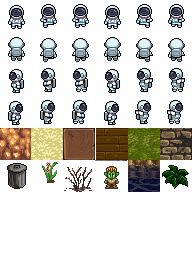
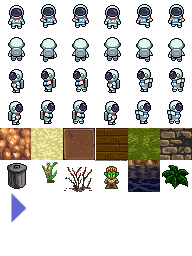
feat(dialog): Letter by Letter rendering, new more clean and modular codebase, arrow when the dialog ends

Changed region(s): [[0.0312, 0.75, 0.1562, 0.875]]

diff --git a/dialogs/dialogs.c b/dialogs/dialogs.c
@@ -1,170 +1,242 @@
 #include "dialogs.h"
 #include "../global/globals.h"
+#include "../map/map.h"
+#include "../entities/entity.h"
 #include "SDL3/SDL_log.h"
-#include "SDL3/SDL_pixels.h"
 #include "SDL3/SDL_rect.h"
-#include "SDL3/SDL_render.h"
-#include "SDL3_ttf/SDL_ttf.h"
 #include <stdlib.h>
-#include <string.h>
+#include <stdbool.h>
 #include <stdio.h>
 
 char *dialogs;
-long file_length;
+static long file_length;
 Current_Dialog_t current_dialog;
 
-int init_dialogs(void)
-{
-    char* full_path = get_full_path("/assets/dialogs.txt");
-    
-    FILE *pFile = fopen(full_path, "r");
+int init_dialogs(void) {
+  char *full_path = get_full_path("/assets/dialogs.txt");
 
-    free(full_path);
-    full_path = NULL;
+  FILE *pFile = fopen(full_path, "r");
 
-    if(pFile == NULL){
-        return 1;
-    }
-    
-    fseek(pFile, 0, SEEK_END); // seek to end of file
-    unsigned long fileSize = ftell(pFile); // get current file pointer
-    fseek(pFile, 0, SEEK_SET); // seek back to beginning of file
+  free(full_path);
+  full_path = NULL;
 
-    dialogs = malloc(fileSize + 1);
+  if (pFile == NULL) {
+    return 1;
+  }
 
-    if(dialogs == NULL){
-        fclose(pFile);
-        return 1;
-    }
+  fseek(pFile, 0, SEEK_END);             // seek to end of file
+  unsigned long fileSize = ftell(pFile); // get current file pointer
+  fseek(pFile, 0, SEEK_SET);             // seek back to beginning of file
 
-    size_t bytesRead = fread(dialogs, 1, fileSize, pFile);
-    dialogs[bytesRead] = '\0';
+  dialogs = malloc(fileSize + 1);
 
-    file_length = fileSize + 1;
-
+  if (dialogs == NULL) {
     fclose(pFile);
+    return 1;
+  }
 
-    current_dialog = (Current_Dialog_t){
-        .is_end = false,
-        .rendering = false,
-        .sprite = {0, 0, 0, 0},
-        .text_texture = NULL
-    };
+  size_t bytesRead = fread(dialogs, 1, fileSize, pFile);
+  dialogs[bytesRead] = '\0';
 
-    return 0;
+  file_length = fileSize + 1;
+
+  fclose(pFile);
+
+  current_dialog =
+      (Current_Dialog_t){.is_end = false,
+                         .rendering = false,
+                         .sprite = {0, 0, 0, 0},
+                         .text_texture = NULL,
+                         .rendering_line = 0,
+                         .last_time = (float)SDL_GetTicks() / 1000.0f,
+                         .is_end_page = false,
+                         .offset = 0};
+
+  return 0;
 }
 
-int get_dialog_cursor_by_id(int id)
-{
-    int new_lines = 0;
+int get_dialog_cursor_by_id(int id) {
+  int new_lines = 0;
 
-    for(int i = 0; i < file_length; i++)
+  for (int i = 0; i < file_length; i++) {
+    if (id == new_lines) {
+      return i;
+      break;
+    }
+    if (dialogs[i] == '\n') {
+      new_lines++;
+    }
+  }
+  return -1;
+}
+
+int get_dialog_length_by_cursor(int cursor) {
+  int len = 0;
+  while (cursor < file_length) {
+    if (dialogs[cursor] == '\n') {
+      return len;
+    }
+    cursor++;
+    len++;
+  }
+  return len;
+}
+
+int redner_dialog_by_id(int id) {
+  int cursor = get_dialog_cursor_by_id(id);
+  if (cursor == -1)
+    return 1;
+
+  int len = get_dialog_length_by_cursor(cursor);
+  if (len == -1)
+    return 1;
+
+  char dialog[len + 1];
+  for (int i = 0; i < len; i++) {
+    dialog[i] = dialogs[i + cursor];
+  }
+  dialog[len] = '\0';
+
+  SDL_Log("dialog: %s", dialog);
+
+  SDL_Color color = {255, 255, 255, SDL_ALPHA_OPAQUE};
+  SDL_Surface *text;
+
+  text = TTF_RenderText_Blended_Wrapped(font, dialog, 0, color, DIALOG_WIDTH);
+  if (text) {
+    current_dialog.text_texture = SDL_CreateTextureFromSurface(renderer, text);
+    SDL_DestroySurface(text);
+  }
+  if (!current_dialog.text_texture) {
+    SDL_Log("Couldn't create text: %s\n", SDL_GetError());
+    return 1;
+  }
+
+  current_dialog.rendering = true;
+//   if ((current_dialog.sprite.y + current_dialog.sprite.h) >=
+//       current_dialog.text_texture->h) {
+//     current_dialog.is_end = true;
+//   }
+
+  current_dialog.sprite = (SDL_FRect){
+      .x = 0,
+      .y = 0,
+      .w = 0,
+      .h = TTF_GetFontLineSkip(font),
+  };
+  return 0;
+}
+
+void render_dialog_box() {
+  SDL_FRect dst = {.x = 0,
+                   .y = 0,
+                   .w = MAP_CELL_SIZE * CAMERA_X_CELLS,
+                   .h = 3 * TTF_GetFontLineSkip(font) + 100};
+  SDL_SetRenderDrawColor(renderer, 90, 90, 90, 50);
+  SDL_RenderFillRect(renderer, &dst);
+}
+
+void output_dialog(SDL_FRect *dst)
+{
+    SDL_RenderTexture(renderer, current_dialog.text_texture, &current_dialog.sprite, dst);
+}
+
+void render_letter_by_time(SDL_FRect *dst) {
+    float now = (float)SDL_GetTicks() / 1000.0f;
+    if (now - current_dialog.last_time >= 0.05){
+        current_dialog.sprite.w += 20;
+        dst->w += 20;
+        current_dialog.last_time = now;
+    }
+}
+
+void render_printed_lines()
+{
+    SDL_FRect src = {0,0,current_dialog.text_texture->w,TTF_GetFontLineSkip(font)}, dst = src;
+    dst.x = 250; dst.y = 50;
+    // SDL_Log("render last lines");
+    for(int i = 0; i < current_dialog.rendering_line; i++)
     {
-        if(id == new_lines){
-            return i;
-            break;
-        }
-        if(dialogs[i] == '\n'){
-            new_lines++;
-        }
+        src.y = current_dialog.offset +  i * TTF_GetFontLineSkip(font);
+        dst.y = i * TTF_GetFontLineSkip(font) + 50;
+        // SDL_Log("printing the old line %d at y %f, w %f", i,dst.y , dst.w);
+        SDL_RenderTexture(renderer, current_dialog.text_texture, &src, &dst);
     }
-    return -1;
 }
 
-int get_dialog_length_by_cursor(int cursor)
+void render_current_line()
 {
-    int len = 0;
-    while(cursor < file_length){
-        if(dialogs[cursor] == '\n'){
-            return len;
-        }
-        cursor++;
-        len++;
-    }
-    return len;
+    SDL_FRect dst = current_dialog.sprite;
+    dst.x = 250;
+    current_dialog.sprite.y = current_dialog.offset +  current_dialog.rendering_line * TTF_GetFontLineSkip(font);
+    dst.y = current_dialog.rendering_line * TTF_GetFontLineSkip(font) + 50;
+    render_letter_by_time(&dst);
+    // SDL_Log("printing current line %d a line at y %f, w %f", current_dialog.rendering_line ,dst.y, dst.w);
+    output_dialog(&dst);
 }
 
-int redner_dialog_by_id(int id)
-{
-    int cursor = get_dialog_cursor_by_id(id);
-    if(cursor == -1) return 1;
-        
-    int len = get_dialog_length_by_cursor(cursor);
-    if(len == -1) return 1;
+void render_arrow(){
+    SDL_FRect src = {0*MAP_SPRITE_SIZE, 6*MAP_SPRITE_SIZE, MAP_SPRITE_SIZE, MAP_SPRITE_SIZE}, 
+    dst = {250, 3 * TTF_GetFontLineSkip(font) + 50, MAP_CELL_SIZE, MAP_CELL_SIZE};
+    SDL_RenderTexture(renderer, map_texture, &src, &dst);
+}
 
-    char dialog[len + 1];
-    for(int i = 0; i < len; i++)
-    {
-        dialog[i] = dialogs[i + cursor];
+void render_current_dialog() {
+    if (!current_dialog.rendering) return;
+    // SDL_Log("Rendering Box!");
+    
+    render_dialog_box();
+    render_printed_lines();
+    
+    if(current_dialog.sprite.w >= current_dialog.text_texture->w){
+        // SDL_Log("we hit the end of the width!");
+        current_dialog.sprite.w = 0;
+        // SDL_Log("we reset the dst width to zero");
+        current_dialog.rendering_line++;
+        // SDL_Log("we increase the rendered lines");
     }
-    dialog[len] = '\0';
-
-    SDL_Log("dialog: %s", dialog);
-
-    SDL_Color color = { 255, 255, 255, SDL_ALPHA_OPAQUE };
-    SDL_Surface *text;
-
-    text = TTF_RenderText_Blended_Wrapped(font, dialog, 0, color, DIALOG_WIDTH);
-    if (text) {
-        current_dialog.text_texture = SDL_CreateTextureFromSurface(renderer, text);
-        SDL_DestroySurface(text);
-    }
-    if (!current_dialog.text_texture) {
-        SDL_Log("Couldn't create text: %s\n", SDL_GetError());
-        return 1;
-    }
-
-    current_dialog.rendering = true;
-    if((current_dialog.sprite.y + current_dialog.sprite.h) >= current_dialog.text_texture->h ){
+    if(current_dialog.sprite.y + TTF_GetFontLineSkip(font) > current_dialog.text_texture->h){
         current_dialog.is_end = true;
+        render_arrow();
+        // SDL_Log("there is no more height lets end this now!");
+        return;
     }
-
-    current_dialog.sprite = (SDL_FRect){
-        .x = 0, .y = 0,
-        .w = current_dialog.text_texture->w,
-        .h = TTF_GetFontLineSkip(font)*3
-    };
-    return 0;
+    if(current_dialog.rendering_line > 2){
+        // SDL_Log("there is more height but we hit the third line, lets move the offeset, arrow rendered");
+        current_dialog.is_end_page = true;
+        render_arrow();
+        return;
+    }
+    // SDL_Log("start printing current line: %d", current_dialog.rendering_line);
+    render_current_line();
 }
 
-void render_current_dialog()
+void destroy_dialog() {
+  current_dialog.rendering = false;
+  current_dialog.is_end = false;
+  current_dialog.sprite = (SDL_FRect){0, 0, 0, 0};
+  current_dialog.is_end_page = false;
+  current_dialog.rendering_line = 0;
+  current_dialog.offset = 0;
+  SDL_DestroyTexture(current_dialog.text_texture);
+  current_dialog.text_texture = NULL;
+}
+
+void move_dialog_offset()
 {
-    if(current_dialog.rendering){
-        SDL_FRect dst = {
-            .x = 0, .y = 0,
-            .w = DIALOG_WIDTH + 300 , .h = TTF_GetFontLineSkip(font)*3 + 100
-        };
-        SDL_SetRenderDrawColor( renderer,90, 90, 90, 90);
-        SDL_RenderFillRect(renderer, &dst);
-        dst.x += 200;
-        dst.y += 50;
-        dst.w = current_dialog.sprite.w;
-        if(TTF_GetFontLineSkip(font)*3 > current_dialog.text_texture->h){
-            dst.h = current_dialog.text_texture->h;
-        }else{
-            dst.h = TTF_GetFontLineSkip(font)*3;
-        }
-        SDL_RenderTexture(renderer, current_dialog.text_texture, &current_dialog.sprite, &dst);
-    }
+    current_dialog.sprite.w = 0;
+    current_dialog.offset += current_dialog.rendering_line * TTF_GetFontLineSkip(font);
+    current_dialog.rendering_line = 0;
+    current_dialog.is_end_page = false;
 }
 
-void destroy_dialog()
+void dialog_event_handler() 
 {
-    current_dialog.rendering = false;
-    current_dialog.is_end = false;
-    current_dialog.sprite = (SDL_FRect){0, 0, 0, 0};
-    SDL_DestroyTexture(current_dialog.text_texture);
-    current_dialog.text_texture = NULL;
-}
-
-void dialog_event_handler(){
-    if(current_dialog.rendering){
-        if((current_dialog.sprite.y + current_dialog.sprite.h) >= current_dialog.text_texture->h ){
-            current_dialog.is_end = true;
-        }
-    }
-    if(current_dialog.is_end){
+    if (current_dialog.is_end) {
+    //   SDL_Log("Destroying!");
         destroy_dialog();
     }
-    current_dialog.sprite.y += current_dialog.sprite.h;
+    if(current_dialog.is_end_page){
+        move_dialog_offset();
+    }
 }

diff --git a/dialogs/dialogs.h b/dialogs/dialogs.h
@@ -4,16 +4,17 @@
 #include "../global/globals.h"
 
 #define DIALOGS_AMOUNT 5
-#define DIALOG_WIDTH 500
+#define DIALOG_WIDTH ((MAP_CELL_SIZE * CAMERA_X_CELLS) - 300)
 
 typedef struct {
     SDL_Texture *text_texture;
     SDL_FRect sprite;
-    bool rendering, is_end;
+    bool rendering, is_end_page, is_end;
+    int rendering_line, offset;
+    float last_time;
 } Current_Dialog_t;
 
 extern char *dialogs;
-extern long file_length;
 extern Current_Dialog_t current_dialog;
 
 int init_dialogs(void);
